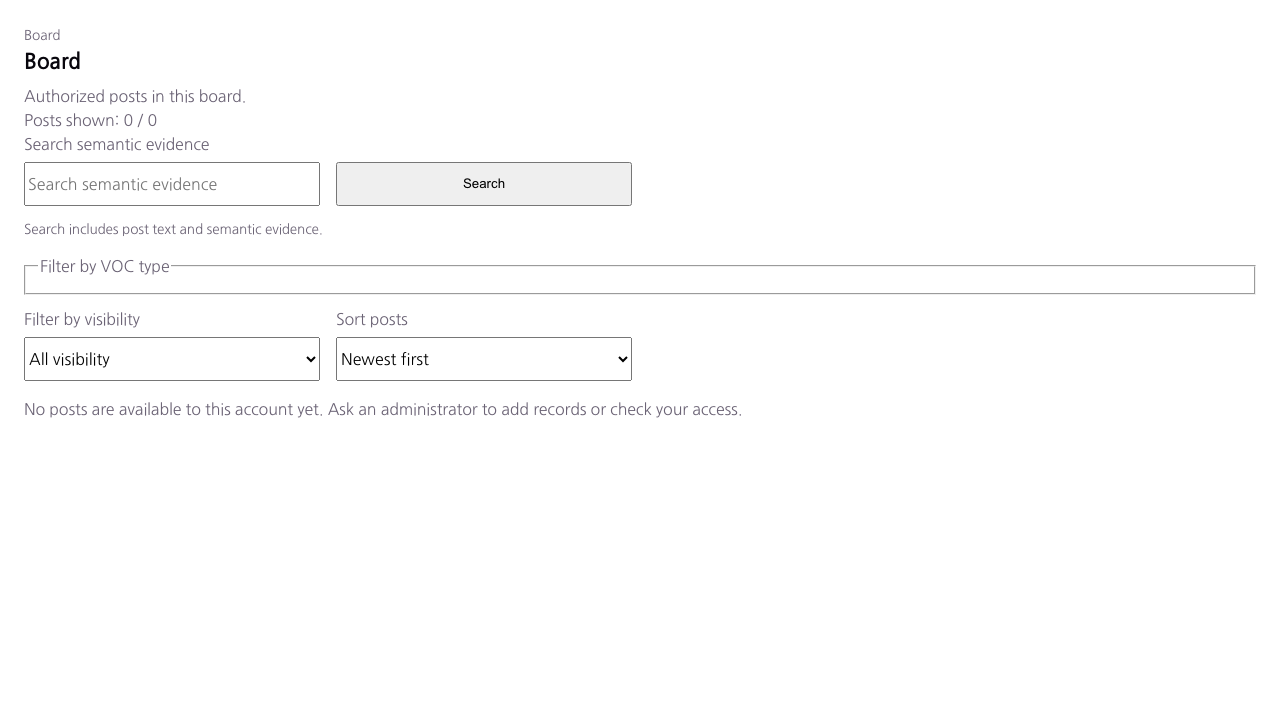
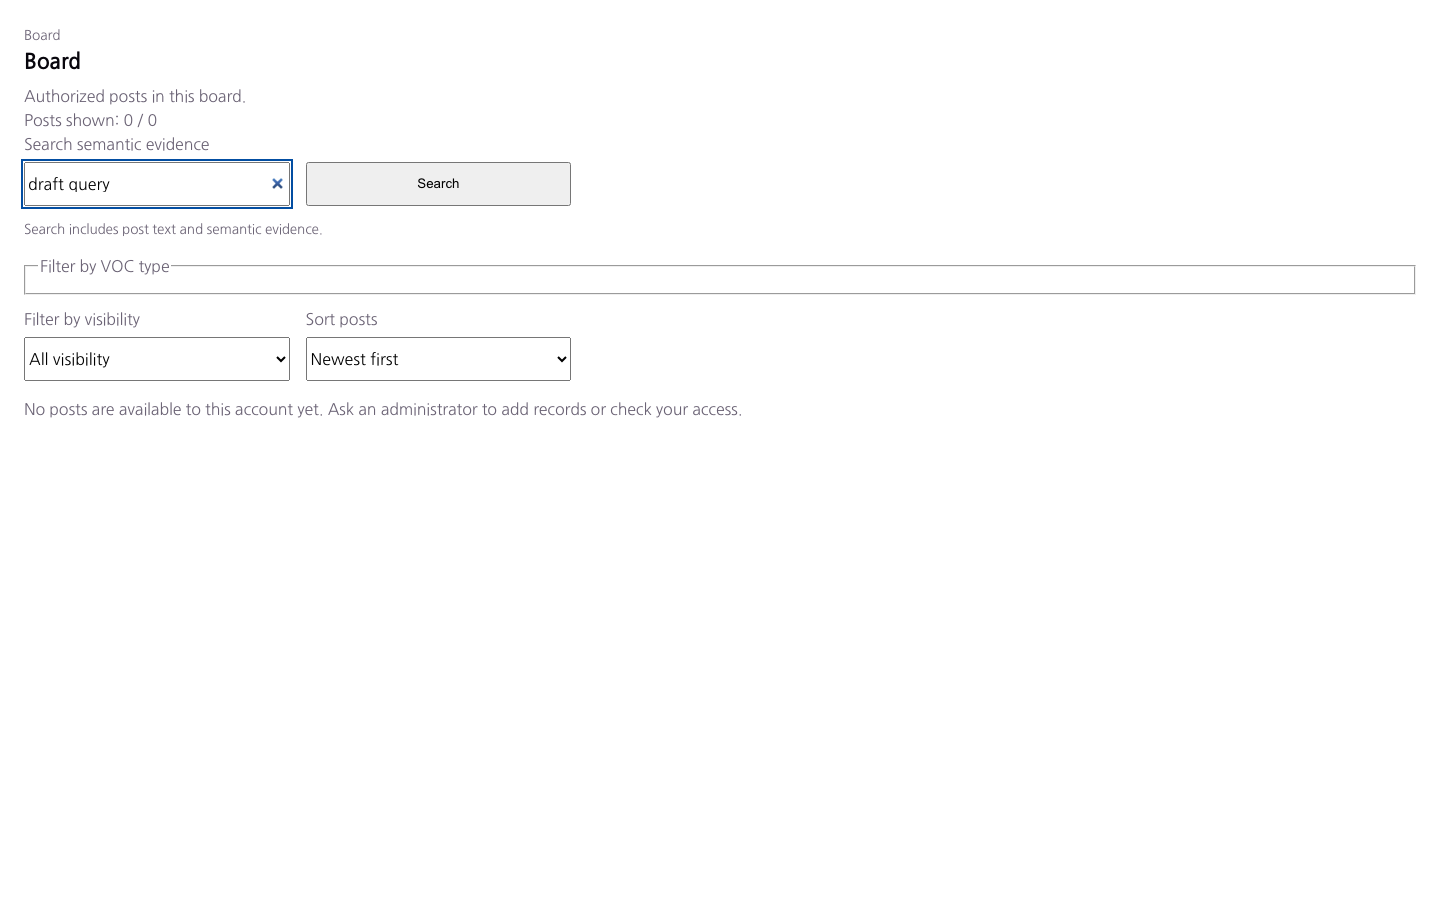
fix(board): keep empty-state guidance while drafting search

diff --git a/frontend/src/App.test.tsx b/frontend/src/App.test.tsx
@@ -2747,6 +2747,12 @@ describe("App, authenticated", () => {
     );
     expect(within(board).getByRole("search", { name: "Search and filter posts" })).toBeInTheDocument();
     expect(within(board).queryByText(/make seed/)).not.toBeInTheDocument();
+    await userEvent.type(within(board).getByRole("searchbox", { name: "Search semantic evidence" }), "draft query");
+    expect(within(board).getByRole("status")).toHaveTextContent(
+      "Ask an administrator to add records or check your access.",
+    );
+    await userEvent.click(within(board).getByRole("button", { name: "Search" }));
+    expect(await within(board).findByText("No posts match the current filters.")).toBeInTheDocument();
   });
 
   it("hides the previous result set while a new board search is pending", async () => {

diff --git a/frontend/src/App.tsx b/frontend/src/App.tsx
@@ -4457,7 +4457,7 @@ export function PostList({
       const direction = sortOrder === "newest" ? -1 : 1;
       return direction * left.created_at.localeCompare(right.created_at);
     });
-  const hasBoardFilters = Boolean(searchInput.trim()) || Boolean(searchQuery) || typeFilter.length > 0 || visibilityFilter !== "all";
+  const hasBoardFilters = Boolean(searchQuery) || typeFilter.length > 0 || visibilityFilter !== "all";
   const totalPages = Math.max(1, Math.ceil(totalPosts / POST_PAGE_SIZE));
   const pageItems: Array<number | "ellipsis"> =
     totalPages <= 7

diff --git a/frontend/src/components/PostList.stories.tsx b/frontend/src/components/PostList.stories.tsx
@@ -103,6 +103,10 @@ export const EmptyBoard: Story = {
       "Ask an administrator to add records or check your access.",
     );
     await expect(canvas.getByRole("search", { name: "Search and filter posts" })).toBeInTheDocument();
+    await userEvent.type(canvas.getByRole("searchbox", { name: "Search semantic evidence" }), "draft query");
+    await expect(canvas.getByRole("status")).toHaveTextContent(
+      "Ask an administrator to add records or check your access.",
+    );
   },
 };
 

diff --git a/docs/product-technical-gap-baseline.md b/docs/product-technical-gap-baseline.md
@@ -1,5 +1,50 @@
 # Product & Technical Gap Baseline
 
+## Current candidate and delivery boundary — 2026-10-25 11:11 UTC
+
+The supporting [PRD](product-requirements.md) and accepted ADR 0025/0216
+govern dated Post evidence. ADR 0246 defines twelve extensible atomic Voices;
+ADR 0256 governs evidence-bearing combinations, while ADR 0251 governs a
+separate occupational semantic layer. The linked RankWeave architecture,
+ThreadWeave, TEPP, and fast-mlsirm PRDs, contextual-orchestrator product and
+architecture documents, and protected-main `disksage` README were read for
+their owner boundaries. The cited literature does not supply a Voice-combination
+catalog, reconstruction weight, or population estimator.
+
+At this observation, protected `main` was
+`91c3e1c7411f56408e4ce61417479ace36ff40cb`; **197 PRs** and **43 issues**
+were open. Those are GitHub queue counts, not product or population evidence.
+Ready #1183 was at exact head `bee7da59fab902655afb8779c503f2e26c1afd3a`
+against that `main`. It had zero unresolved review threads, no independent
+approval, no auto-merge request, and four terminal failed Checks (Python and
+Actions CodeQL, full suite, frontend). Jobs ended in seconds; the REST job-log
+request returned HTTP 403 rate limit, so the current failure cause is
+**unverified**. Earlier billing annotations cannot be assigned to this head
+without its own job evidence. The last checked ruleset did not enforce review
+and Checks; leave auto-merge off while current policy is unavailable because
+it could merge before independent approval. No merge SHA exists.
+
+**Selected user gap and candidate repair.** On an empty authorized Board, merely
+typing an unsubmitted query changed the next action to a no-match result even
+though no search had run. #1183 now changes that state only after submission.
+A synthetic regression checks both states; the Post board Storybook scene and
+fresh Chromium desktop/mobile captures show the drafted query with the
+administrator action still visible. After the narrow change, focused
+App/Ontology tests passed 153/153, documentation hygiene passed 6/6, and lint,
+Storybook build, and the production frontend build passed. The full hosted
+suite must be rerun on the final pushed head. This repair changes no ADR,
+API, schema, inference owner, or release
+number. #1182 owns the server-side Board filter scan and #1181 also edits this
+baseline; their changes need reconciliation without replacing either owner.
+
+**Unmet acceptance.** The larger Voice journey still lacks current-head
+authenticated PostgreSQL/API and rendered UI evidence for distinct carrying
+and derivation Posts, truth/cutoff, hidden-evidence denial, and paged JSON-LD
+union. The canonical `lineageweave` PostgreSQL, Valkey, and orchestrator
+containers currently report unhealthy. No synthetic authorized k6 token file
+was supplied, so concurrency, latency, error-rate, throughput, and service
+saturation remain unmeasured; no capacity or population claim follows.
+
 ## Exact-head continuation — 2026-10-25 09:58 UTC
 
 The current LineageWeave PRD and the linked product or architecture authorities

diff --git a/docs/storybook-inventory.md b/docs/storybook-inventory.md
@@ -7,7 +7,7 @@ operator-facing control you can click before changing product CSS.
 |---|---|---|
 | `Workspace/Post board/SearchPending` | Wait for the new search to finish before opening a result. The old result list and count are hidden during the pending request. `NarrowViewport` checks the same state on a phone-sized screen. Both stories use synthetic records; `board-search-pending-desktop.png` and `board-search-pending-mobile.png` record the rendered states. | `PostList`, existing board and status tokens |
 | `Workspace/Post board/SearchFailure` | Retry the same failed search with its filters still visible. The old result list and count stay hidden, and a provider diagnostic is not shown. `SearchFailureNarrowViewport` checks the same action on a phone-sized screen. Synthetic rendered captures `board-search-failure-desktop.png` and `board-search-failure-mobile.png` show the retry action without horizontal overflow. | `PostList`, `StatusNotice`, existing status tokens |
-| `Workspace/Post board/EmptyBoard` | A reader with no available posts sees an action to take with an administrator, while search remains available. `EmptyBoardNarrowViewport` checks the same state on a phone-sized screen. Synthetic rendered captures `board-empty-desktop.png` and `board-empty-mobile.png` show the action without horizontal overflow. | `PostList`, existing board tokens |
+| `Workspace/Post board/EmptyBoard` | A reader with no available posts keeps the administrator action while drafting a search; only submitting the search changes the result state. `EmptyBoardNarrowViewport` checks the same state on a phone-sized screen. Synthetic rendered captures `board-empty-desktop.png` and `board-empty-mobile.png` show the drafted query and action without horizontal overflow. | `PostList`, existing board tokens |
 | `Post/Historical related information` | Inspect only relationships supported by the selected date, then open a post to inspect the history available then. `CutoffEvidence` and `NarrowViewport` keep this next action legible without showing current-only Keyman relations. Desktop and mobile captures also audit the expanded unavailable state and retry action (`historical-related-cutoff-expanded-*.png`); they are synthetic Storybook evidence, not an authenticated Post journey. | `HistoricalRelatedPanel`, existing popup and control tokens |
 | `Evidence/OntologyExplorer/SignInRequired` | Sign in again after authentication expires; no same-credential Retry or export is available. Desktop/mobile retain the shared named unavailable region. | `OntologyExplorer`, `StatusNotice`, existing status tokens |
 | `Evidence/OntologyExplorerRetry/InitialRequestRetry` | Retry the same failed related-information request without reopening the Post; desktop/mobile show the shared retry alert and keep exports disabled until evidence arrives. Synthetic diagnostics stay hidden. | `OntologyExplorer`, `StatusNotice`, existing badge-status tokens |
